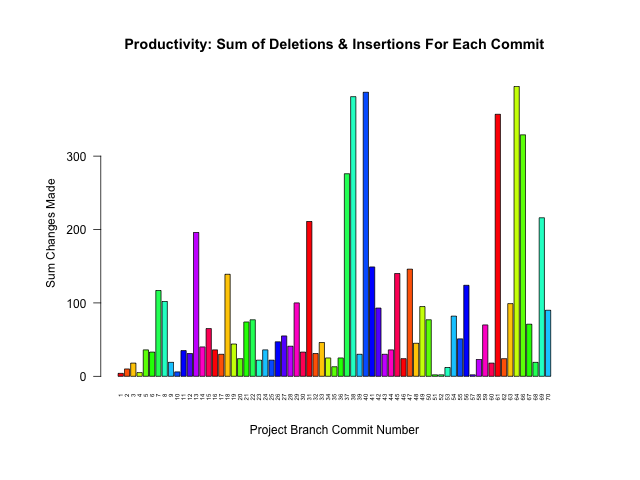
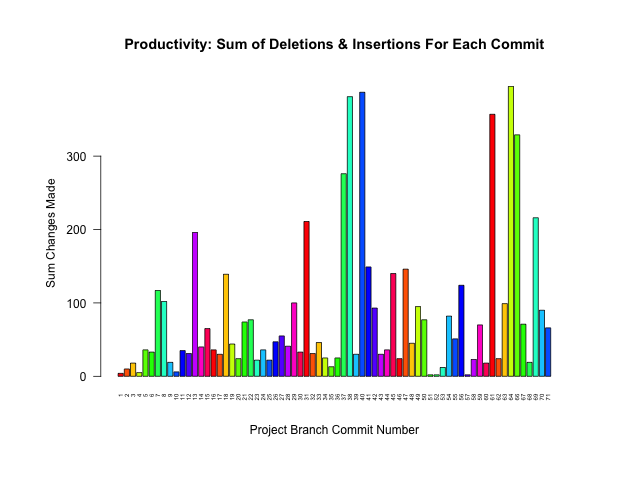
COMMIT #241

Changed region(s): [[0.1875, 0.1562, 0.875, 0.7812], [0.2188, 0.8125, 0.8438, 0.8438]]

diff --git a/README.md b/README.md
@@ -17,9 +17,9 @@ ProjectName::BranchName.data
 
 Project Name | Last Updated | # Commits | # Branches | Branches Merged
 :---|:---:|:---:|:---:|:---:
+[learn_some_C.Plus.Plus](https://github.com/pierremigeon/learn_some_C.Plus.Plus)                    |  2023-07-13  |  71   |  1  |  100%  (1/1)
+[commit_tracker](https://github.com/pierremigeon/commit_tracker)                                    |  2023-07-13  |  240  |  1  |  100%  (1/1)
 [Algorithms_practice](https://github.com/pierremigeon/Algorithms_practice)                          |  2023-07-13  |  12   |  4  |  75%   (3/4)
-[learn_some_C.Plus.Plus](https://github.com/pierremigeon/learn_some_C.Plus.Plus)                    |  2023-07-12  |  70   |  1  |  100%  (1/1)
-[commit_tracker](https://github.com/pierremigeon/commit_tracker)                                    |  2023-07-12  |  239  |  1  |  100%  (1/1)
 [libft](https://github.com/pierremigeon/libft)                                                      |  2023-06-05  |  30   |  2  |  50%   (1/2)
 [ft_printf](https://github.com/pierremigeon/ft_printf)                                              |  2023-06-01  |  37   |  2  |  100%  (2/2)
 [minishell](https://github.com/pierremigeon/minishell)                                              |  2023-05-20  |  78   |  8  |  88%   (7/8)
